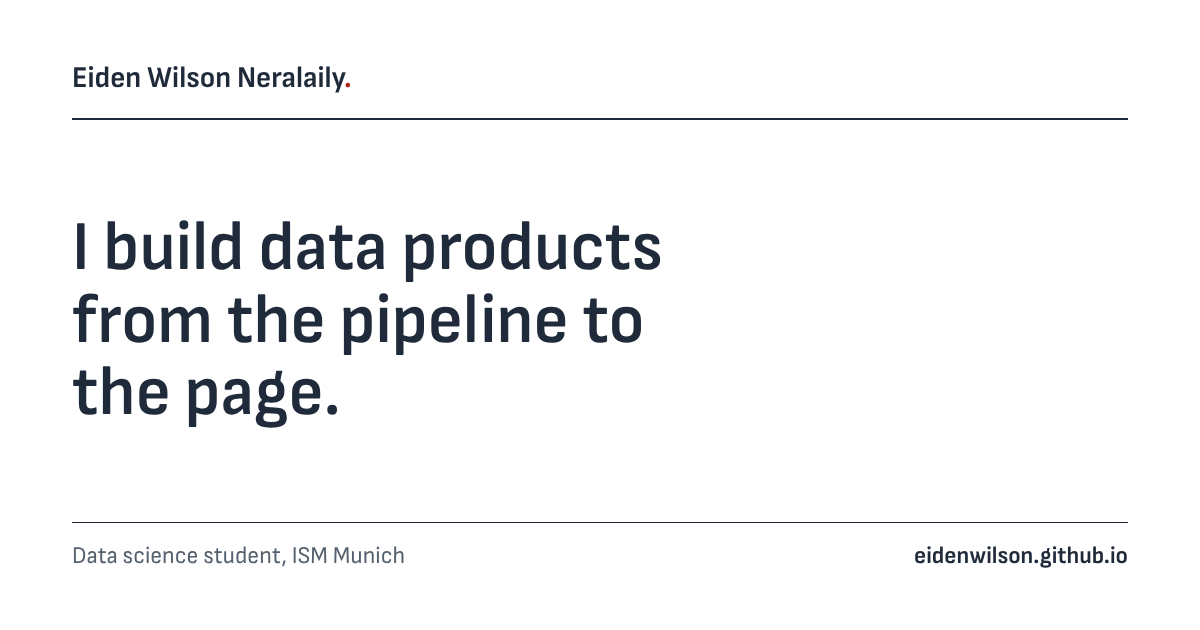
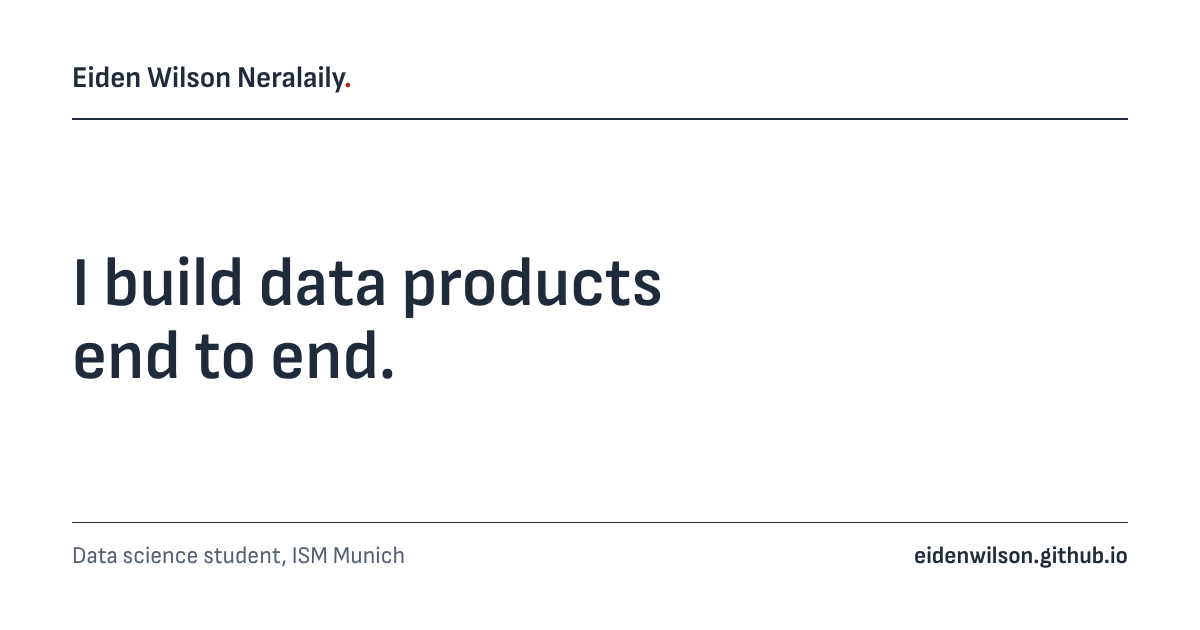
Two-line headline, full-ink text, screenshots of two more projects
- The label above the headline is gone; the headline is now "I build data
  products end to end." and stays on two lines from 320 to 1440 px
- Section intros and skill lists are set in full ink; grey stays for notes
- The churn app (live, scoring one customer) and the rental platform's owner
  dashboard (run locally with its sample data) get real screenshots, title and
  picture on the left, the entry on the right
- All project rows share one text column, aligned with the section intros
- Link preview redrawn with the new headline

Claude-Session: https://claude.ai/code/session_017LwUsYpRN4rzbH2wtC2Q7S

Changed region(s): [[0.0617, 0.3317, 0.555, 0.6937]]

diff --git a/assets/css/style.css b/assets/css/style.css
@@ -39,7 +39,6 @@ p{margin:0}
 
 .hero{padding-block:var(--s8) var(--s7)}
 .hero .wrap{display:grid;grid-template-columns:minmax(0,1.3fr) minmax(280px,.9fr);gap:var(--s7) var(--s8);align-items:end}
-.kicker{font-size:17px;color:var(--muted);margin-bottom:var(--s4)}
 h1{font-size:clamp(40px,5.6vw,68px);font-weight:650;letter-spacing:-.008em;max-width:16ch}
 .lead{font-size:clamp(19px,1.6vw,21px);line-height:1.5;max-width:56ch;margin-top:var(--s5)}
 
@@ -53,7 +52,7 @@ h1{font-size:clamp(40px,5.6vw,68px);font-weight:650;letter-spacing:-.008em;max-w
 .sec{padding-block:var(--s8)}
 .head{border-top:2px solid var(--ink);padding-top:var(--s4);display:grid;grid-template-columns:minmax(0,1fr) minmax(0,1fr);gap:var(--s4) var(--s7);align-items:end;margin-bottom:var(--s6)}
 .head h2{font-size:clamp(28px,3.2vw,38px);font-weight:650}
-.head p{color:var(--muted);max-width:52ch}
+.head p{max-width:52ch}
 .tint{background:var(--sunk)}
 
 /* the main project: the picture is the subject */
@@ -75,17 +74,21 @@ h1{font-size:clamp(40px,5.6vw,68px);font-weight:650;letter-spacing:-.008em;max-w
 
 /* everything else: one ruled list */
 .rows{list-style:none;margin:var(--s7) 0 0;padding:0;border-top:1px solid var(--ink)}
-.rows li{display:grid;grid-template-columns:minmax(0,1fr) minmax(0,1.6fr);gap:var(--s3) var(--s7);padding:var(--s5) 0;border-bottom:1px solid var(--line)}
+.rows li{display:grid;grid-template-columns:minmax(0,1fr) minmax(0,1fr);gap:var(--s3) var(--s7);padding:var(--s5) 0;border-bottom:1px solid var(--line)}
 .rows h3{font-size:21px;font-weight:700;line-height:1.25}
 .rows .meta{display:block;margin-top:4px;font-size:15px;color:var(--muted);font-weight:400}
 .rows p{max-width:62ch}
 .rows .stack{margin-top:var(--s2)}
 .tint .rows{margin-top:0}
+/* a project with a picture: title and picture on the left, the entry on the right */
+.rows li.has-shot{grid-template-rows:auto 1fr;align-items:start}
+.has-shot > h3,.has-shot > .shot{grid-column:1}
+.has-shot > div{grid-column:2;grid-row:1 / span 2}
 
 .skills{display:grid;grid-template-columns:repeat(2,minmax(0,1fr));gap:0 var(--s7);margin:0;border-top:1px solid var(--ink)}
 .skills div{padding:var(--s4) 0;border-bottom:1px solid var(--line)}
 .skills dt{font-weight:700}
-.skills dd{margin:4px 0 0;color:var(--muted)}
+.skills dd{margin:4px 0 0}
 
 .contact .say{font-size:clamp(22px,2.4vw,30px);font-weight:650;max-width:30ch;line-height:1.25}
 .foot{border-top:1px solid var(--ink);padding-block:var(--s6) var(--s7);font-size:15px;color:var(--muted)}
@@ -93,6 +96,8 @@ h1{font-size:clamp(40px,5.6vw,68px);font-weight:650;letter-spacing:-.008em;max-w
 
 @media (max-width:900px){
   .hero .wrap,.lead-work,.rows li,.head,.skills{grid-template-columns:minmax(0,1fr)}
+  .rows li.has-shot{grid-template-rows:none}
+  .rows li.has-shot > *{grid-column:1;grid-row:auto}
   .figs{grid-template-columns:repeat(2,minmax(0,1fr))}
   .figs div{border-inline-start:0;padding-inline:0;border-top:1px solid var(--line);padding-bottom:var(--s3)}
   .figs div:nth-child(-n+2){border-top:0}
@@ -100,6 +105,7 @@ h1{font-size:clamp(40px,5.6vw,68px);font-weight:650;letter-spacing:-.008em;max-w
 }
 @media (max-width:640px){
   body{font-size:17px}
+  h1{font-size:min(40px,10.2vw)}
   .bar nav{order:3;width:100%;gap:0 18px;font-size:15px}
   .sec{padding-block:var(--s7)}
   .hero{padding-top:var(--s7)}

diff --git a/index.html b/index.html
@@ -36,8 +36,7 @@
 <section class="hero">
   <div class="wrap">
     <div>
-      <p class="kicker">Data science student in Munich</p>
-      <h1>I build data products from the pipeline to the page.</h1>
+      <h1>I build data products end to end.</h1>
       <p class="lead">I study Applied Data Science and Business Analytics at ISM Munich. I like problems where the data is messy and the answer has to be clear enough for a business owner to act on.</p>
       <div class="actions"><a class="btn" href="mailto:eidenwilson123@gmail.com">Email me</a><a href="#work">See my work</a></div>
     </div>
@@ -84,14 +83,22 @@
       <div><b>€0</b><span>to run, on free tiers only</span></div>
     </div>
     <ul class="rows">
-      <li>
+      <li class="has-shot">
         <h3>Customer churn prediction and retention dashboard</h3>
+        <figure class="shot">
+          <img src="assets/img/churn-app.webp" width="1040" height="780" loading="lazy" decoding="async" alt="The churn app scoring one customer with a month-to-month contract, fibre internet and 12 months of tenure: high risk of churn at 83.4%, with the advice to offer a discount or a one-year contract">
+          <figcaption>The live app, scoring one customer.</figcaption>
+        </figure>
         <div><p>Flags telecom customers who are likely to cancel, and lets a retention team test discount offers in a live dashboard with a return-on-investment calculator. A random forest trained with SMOTE reaches an AUC-ROC of 0.83 and catches 68% of the customers who leave. SHAP shows what drives it: month-to-month contracts, short tenure and no online security.</p>
         <p class="stack"><b>Stack:</b> Python, scikit-learn, SMOTE, SHAP, Streamlit, Power BI</p>
         <p class="links"><a href="https://customer-churn-prediction-telco-xfxatqmebefxlntqlwvkkf.streamlit.app/">Open the app</a><a href="https://github.com/EidenWilson/customer-churn-prediction-telco">Read the code</a></p></div>
       </li>
-      <li>
+      <li class="has-shot">
         <h3>Property rental platform</h3>
+        <figure class="shot">
+          <img src="assets/img/rental-dashboard.webp" width="1040" height="780" loading="lazy" decoding="async" alt="Owner dashboard of the rental platform: total revenue earned of €3,972 and the revenue for each property, both computed in SQL">
+          <figcaption>The owner dashboard, run locally with the sample data.</figcaption>
+        </figure>
         <div><p>Owners list and manage properties; renters search by city and book by date, with the total price worked out from the dates. Hashed passwords, renter and owner roles behind route guards, an owner dashboard with total revenue from SQL, and a pytest suite.</p>
         <p class="stack"><b>Stack:</b> Python, Flask, SQLAlchemy, SQLite, Jinja, pytest</p>
         <p class="links"><a href="https://github.com/EidenWilson/Rental-house-system">Read the code</a></p></div>
